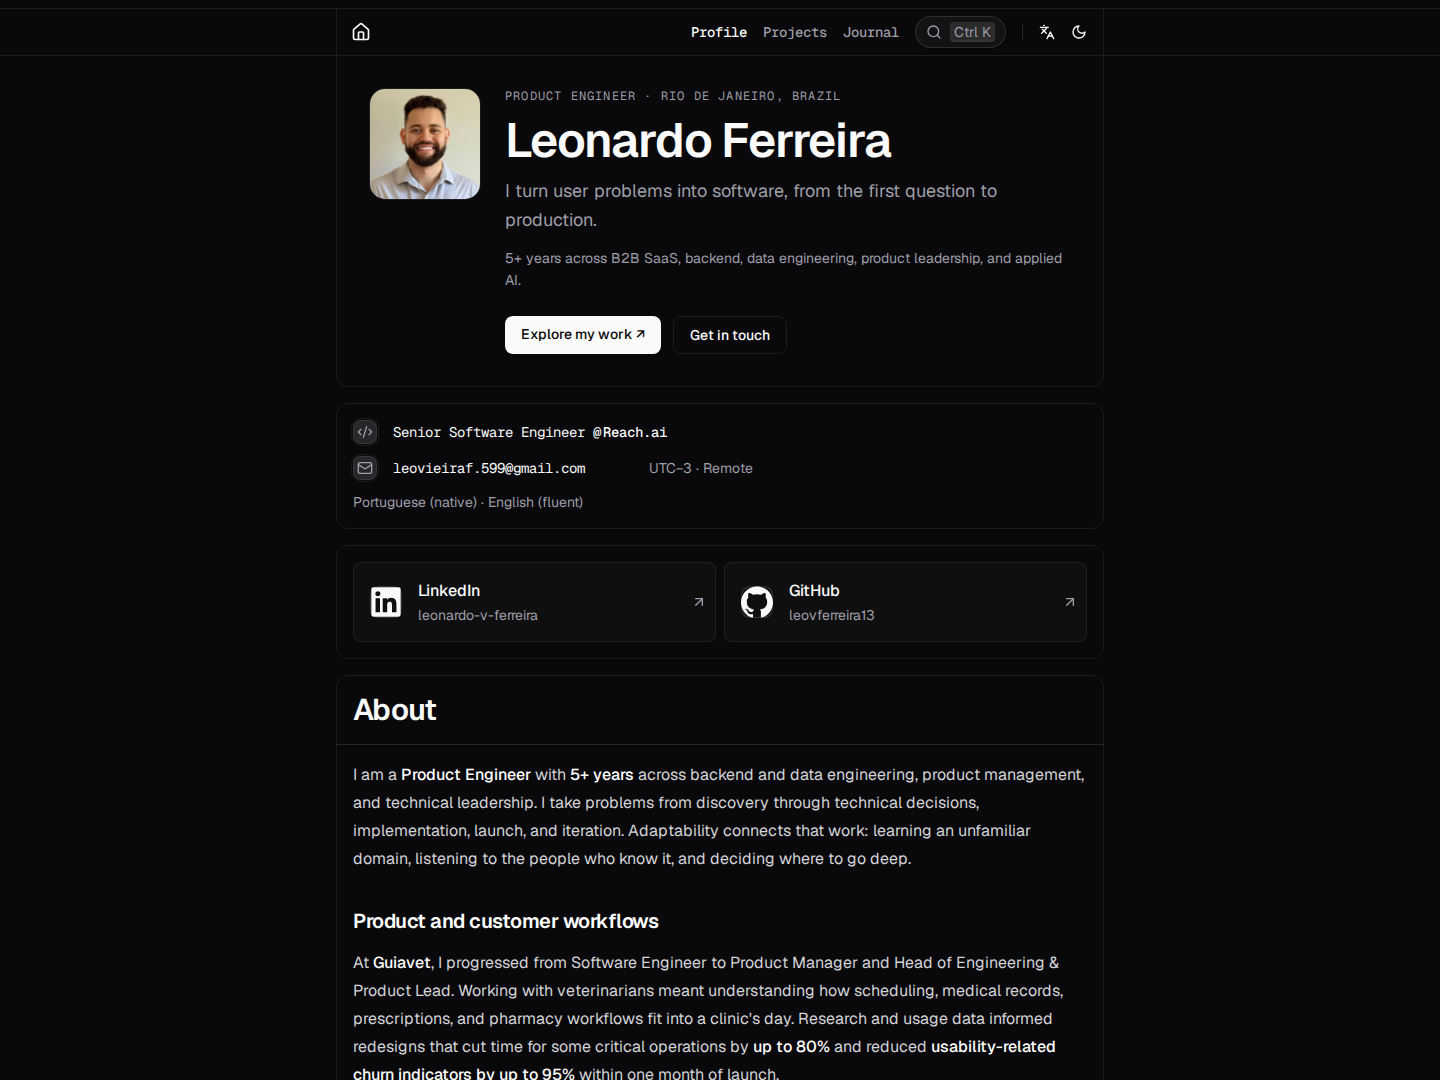
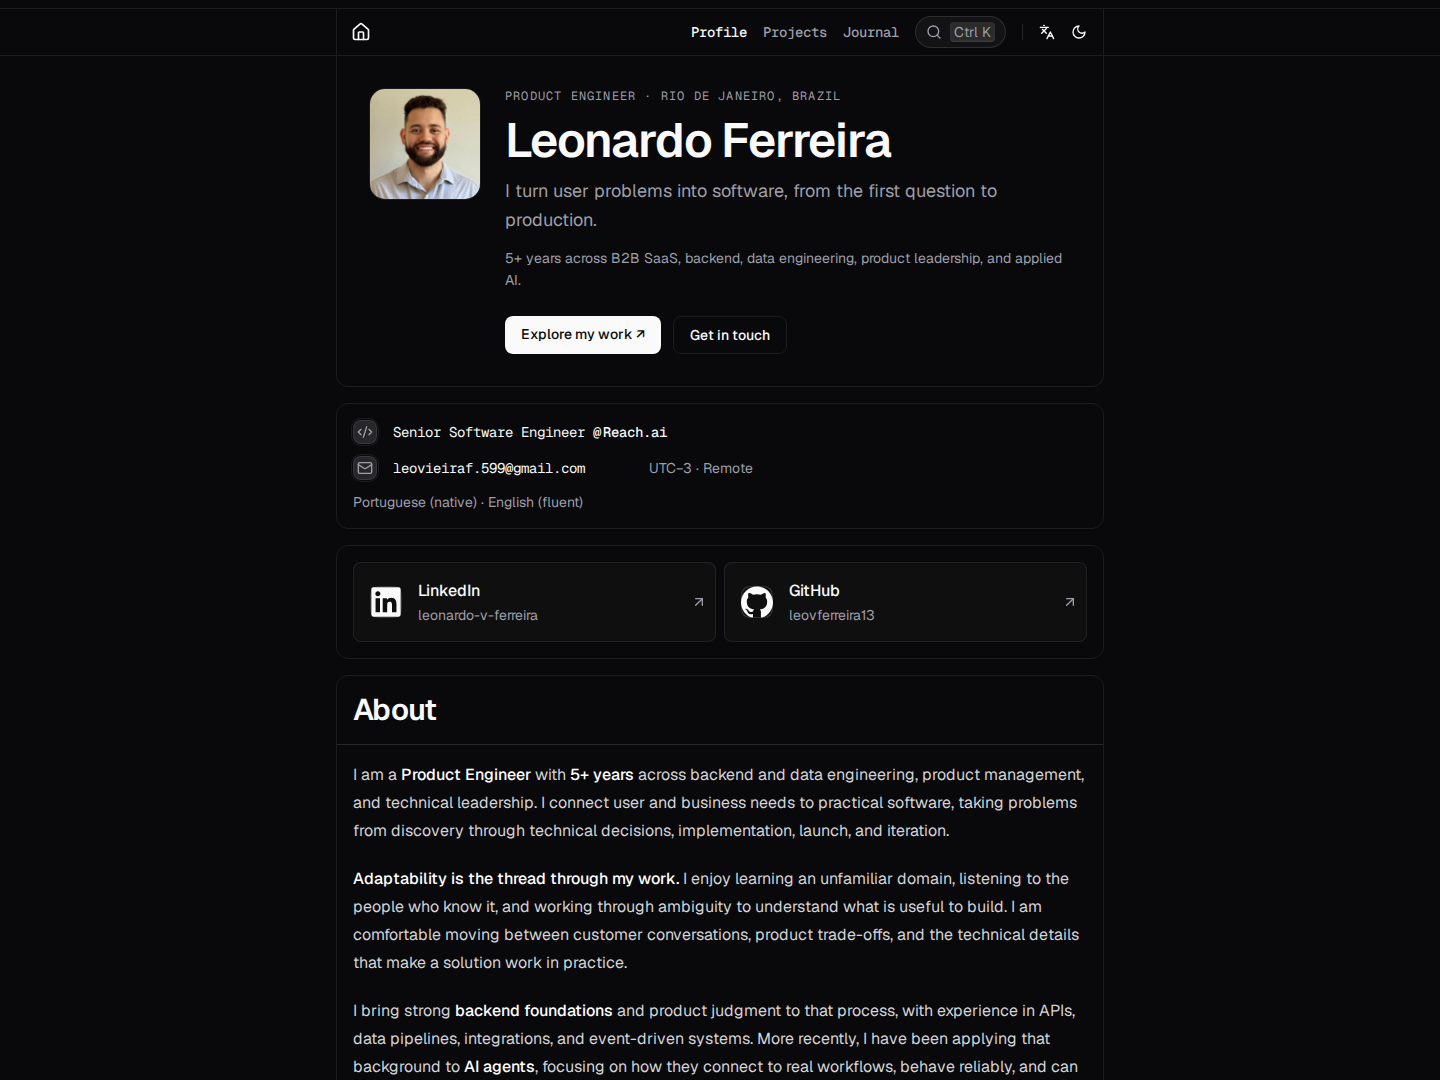
feat(portfolio): simplify About and adopt draft-first pull requests

Changed region(s): [[0.25, 0.7333, 0.75, 1.0]]

diff --git a/src/features/portfolio/data/user.ts b/src/features/portfolio/data/user.ts
@@ -23,25 +23,11 @@ export const USER: User = {
     },
   ],
   about: `
-I am a **Product Engineer** with **5+ years** across backend and data engineering, product management, and technical leadership. I take problems from discovery through technical decisions, implementation, launch, and iteration. Adaptability connects that work: learning an unfamiliar domain, listening to the people who know it, and deciding where to go deep.
+I am a **Product Engineer** with **5+ years** across backend and data engineering, product management, and technical leadership. I connect user and business needs to practical software, taking problems from discovery through technical decisions, implementation, launch, and iteration.
 
-### Product and customer workflows
+**Adaptability is the thread through my work.** I enjoy learning an unfamiliar domain, listening to the people who know it, and working through ambiguity to understand what is useful to build. I am comfortable moving between customer conversations, product trade-offs, and the technical details that make a solution work in practice.
 
-At **Guiavet**, I progressed from Software Engineer to Product Manager and Head of Engineering & Product Lead. Working with veterinarians meant understanding how scheduling, medical records, prescriptions, and pharmacy workflows fit into a clinic's day. Research and usage data informed redesigns that cut time for some critical operations by **up to 80%** and reduced **usability-related churn indicators by up to 95%** within one month of launch.
-
-I also led product expansion beyond solo practitioners to veterinarians serving other clinics and to clinics themselves, adapting packaging and workflows to each B2B segment. This combination of customer understanding, technical scoping, integrations, and end-to-end ownership is what draws me to **Forward Deployed Engineering**: working through an unfamiliar context until the solution fits the people using it.
-
-### Backend systems that support the product
-
-At **Reach.ai**, I engineer Python/FastAPI APIs and event-driven messaging flows for a multi-tenant platform processing **20M+ emails and SMS per month**, with **99.9% delivery reliability**. Queue processing improvements and Redis-backed idempotency supported **50x peak throughput capacity** while reducing duplicate-send risk. At Guiavet, I worked across Django domain modeling, PostgreSQL, asynchronous workers, and Vue.js, connecting architecture choices to daily workflows.
-
-My data engineering foundation comes from **QDOIS**, where I integrated databases, APIs, and SFTP sources through Azure Data Factory and Databricks/PySpark. That experience still shapes how I think about data models, system boundaries, and the information a product needs to make useful decisions.
-
-### Applied AI grounded in engineering
-
-I am building a **voice and SMS appointment agent** at Reach.ai with Python, LangGraph, ReAct-style orchestration, OpenAI tool calling, and retrieval over business knowledge. The agent connects multi-turn conversations to availability, booking, rescheduling, and cancellation APIs. My work includes behavioral evaluations, response guardrails, Redis-backed idempotency, and observability through LangSmith and audit logs.
-
-The agent is **in prelaunch testing**; internal voice tests reached **approximately 2 seconds median response latency**. This is a technical result from testing, with customer outcomes still to be measured after launch. I bring the same product judgment and backend discipline to AI work: understand the workflow, make integrations dependable, inspect failures, and improve against evidence.
+I bring strong **backend foundations** and product judgment to that process, with experience in APIs, data pipelines, integrations, and event-driven systems. More recently, I have been applying that background to **AI agents**, focusing on how they connect to real workflows, behave reliably, and can be evaluated and improved. I work best close to the problem, with ownership of both the engineering and the experience it creates.
 `,
   avatar: "/profile.jpg",
   ogImage:

diff --git a/scripts/check-i18n.test.ts b/scripts/check-i18n.test.ts
@@ -96,8 +96,8 @@ test("capability explanations cover each group in every language", () => {
     )
     for (const description of Object.values(content.capabilityDescriptions))
       assert.ok(description.length > 100)
-    assert.match(content.user.about, /Forward Deployed Engineering/)
-    assert.match(content.user.about, /LangSmith/)
+    assert.doesNotMatch(content.user.about, /^#{1,6}\s/m)
+    assert.doesNotMatch(content.user.about, /Guiavet|Reach\.ai|QDOIS/i)
   }
 })
 

diff --git a/README.md b/README.md
@@ -14,11 +14,11 @@ I turn user problems into software, from the first question to production.
 
 ## About me
 
-I'm a Product Engineer based in Rio de Janeiro, Brazil, with 5+ years across backend and data engineering, product management, and technical leadership. I enjoy learning an unfamiliar domain, understanding what people need, and taking a solution through discovery, technical decisions, implementation, launch, and iteration.
+I am a **Product Engineer** with **5+ years** across backend and data engineering, product management, and technical leadership. I connect user and business needs to practical software, taking problems from discovery through technical decisions, implementation, launch, and iteration.
 
-At **Guiavet**, I grew from Software Engineer to Product Manager and Head of Engineering & Product Lead. I worked with veterinarians to improve everyday workflows, helped adapt the product to new B2B segments, and led a team of five engineers. At **Reach.ai**, I build Python APIs and event-driven messaging systems, and I'm developing a voice and SMS appointment agent.
+**Adaptability is the thread through my work.** I enjoy learning an unfamiliar domain, listening to the people who know it, and working through ambiguity to understand what is useful to build. I am comfortable moving between customer conversations, product trade-offs, and the technical details that make a solution work in practice.
 
-My main focus is **Product Engineering**, supported by the backend foundations, customer understanding, and integration work that also connect to **Forward Deployed Engineering** and **Applied AI**.
+I bring strong **backend foundations** and product judgment to that process, with experience in APIs, data pipelines, integrations, and event-driven systems. More recently, I have been applying that background to **AI agents**, focusing on how they connect to real workflows, behave reliably, and can be evaluated and improved. I work best close to the problem, with ownership of both the engineering and the experience it creates.
 
 ## What I bring
 

diff --git a/docs/reports/portfolio-validation.md b/docs/reports/portfolio-validation.md
@@ -71,3 +71,11 @@ The prior local production build returned nonempty Markdown and displayed it in 
 - Local production server honored `PORT=8080`; `/en` returned 200 directly and `/` returned 308. Railway healthcheck changed to `/en` to avoid redirect-only health responses.
 - Live Railway diagnosis: domain targeted 3000, runtime listened on 8080, and HTTP logs showed connection refused. Changed only the domain target to 8080; both `/` and `/llms.txt` then returned 200 with no upstream error. The deployment remains `main@9a0b833`, so public `/llms.txt` still contains the upstream template until PR #18 is integrated and deployed.
 - Full lint, TypeScript, production build, 15 content tests, and diff whitespace checks pass. No source redeploy or merge was performed.
+
+## Concise About and draft-first PR workflow (2026-10-17)
+
+About now has three continuous, profile-centered paragraphs in every language (English: 155 words), without employer names, metrics, or subsection headings. Detailed experience and capability explanations remain in their own sections. README uses the same English introduction, and English text exports reuse USER.about. ADR 0015 supersedes 0014 and retains the detailed evidence approach outside About.
+
+Regenerated dark-mode English desktop and Portuguese mobile screenshots from the current production build. Checked all five profile languages on desktop and mobile: three paragraphs, no About subheadings or employer names, no horizontal overflow. Verified the current About in the full machine export and both inline text routes. All 15 content tests, full lint, TypeScript, production build, formatting, and diff whitespace checks pass.
+
+PR #20 was converted to draft before work and stays draft during the refinement phase. AGENTS.md now requires draft creation by default, with a ready-for-review transition only at the agreed final QA handoff. No merge or deployment was performed.

diff --git a/docs/adr/0015-concise-profile-about.md b/docs/adr/0015-concise-profile-about.md
@@ -1,0 +1,27 @@
+---
+type: ADR
+id: "0015"
+title: "Concise profile-centered About"
+status: active
+date: 2026-10-17
+---
+
+## Context
+
+The expanded About repeated employer-specific evidence already available in experience and capabilities. The owner prefers a short LinkedIn-style introduction without subsections or a focus on any company. This supersedes ADR 0014 while retaining its approach to detailed experience and capabilities.
+
+## Decision
+
+**Use a concise, continuous About centered on the professional profile in all five languages.** Keep Product Engineer as the primary positioning, with adaptability, customer understanding, ownership, backend foundations, and applied AI woven into three paragraphs. Employer names, detailed metrics, tools, and project evidence belong in the existing experience, capability, and project sections.
+
+Retain curated multilingual capability explanations and English machine exports from ADR 0014. Preserve the scope of all experience metrics and the appointment agent's prelaunch status. The English machine About reuses the same profile copy.
+
+## Options considered
+
+- **Short profile narrative (chosen):** gives a quick introduction and leaves evidence to the detailed sections.
+- Employer-led subsections: useful detail but repetitive and too long for the introduction.
+- A list of target job titles: makes the positioning harder to understand.
+
+## Consequences
+
+The About is easier to scan without section headings. Updates still require equivalent translations and refreshed dark-mode captures. Revisit its length when the primary professional positioning changes, rather than adding each new experience to the introduction.

diff --git a/AGENTS.md b/AGENTS.md
@@ -72,6 +72,8 @@ For **every revision to the portfolio's content, layout, styles, navigation, or 
 
 ## GitHub source control
 
+**Create every new pull request as a draft by default** (`gh pr create --draft` or API `draft: true`). Keep it in draft during implementation and user-requested refinements; convert an existing ready PR back to draft before continuing work. Only mark it ready for review at the agreed final QA handoff, after implementation, required checks, screenshots, and the PR description are complete. If the user says to keep it draft for now, leave it draft until they indicate the refinement phase is finished. Marking ready does not authorize merging or self-approving. This maintainer preference takes precedence over workflow examples that omit the draft flag.
+
 When a work item is **ready to commit**, or the user asks for **commits**, **branches**, or **pull requests** under the agreed workflow, read and follow [`.agents/skills/github-source-control/SKILL.md`](.agents/skills/github-source-control/SKILL.md) (branch from `develop` by default, no direct push to `main`/`develop`, conventional commits, open PRs with a documented body).
 
 Other project skills live under [`.agents/skills/`](.agents/skills/) (for example component docs and registry block classification).

diff --git a/docs/ARCHITECTURE.md b/docs/ARCHITECTURE.md
@@ -50,7 +50,7 @@ The list below is the **living summary of decisions still in force**. Update it 
 - **[0012](./adr/0012-multilingual-portfolio.md)** — Five explicit locale URLs and server-rendered translations; English default.
 - **[0013](./adr/0013-journal-navigation.md)** — Journal navigation and optional machine exports; supersedes 0009.
 
-- **[0014](./adr/0014-expanded-professional-narrative.md)** — Expanded Product Engineer narrative, adjacent role evidence, and multilingual capability explanations reused by English exports.
+- **[0015](./adr/0015-concise-profile-about.md)** — Concise profile-centered About, with detailed experience and multilingual capability explanations reused by English exports; supersedes 0014.
 
 ## Portfolio and Journal
 

diff --git a/docs/adr/0014-expanded-professional-narrative.md b/docs/adr/0014-expanded-professional-narrative.md
@@ -2,7 +2,8 @@
 type: ADR
 id: "0014"
 title: "Expanded professional narrative with one primary positioning"
-status: active
+status: superseded
+superseded_by: "0015"
 date: 2026-10-17
 ---
 
